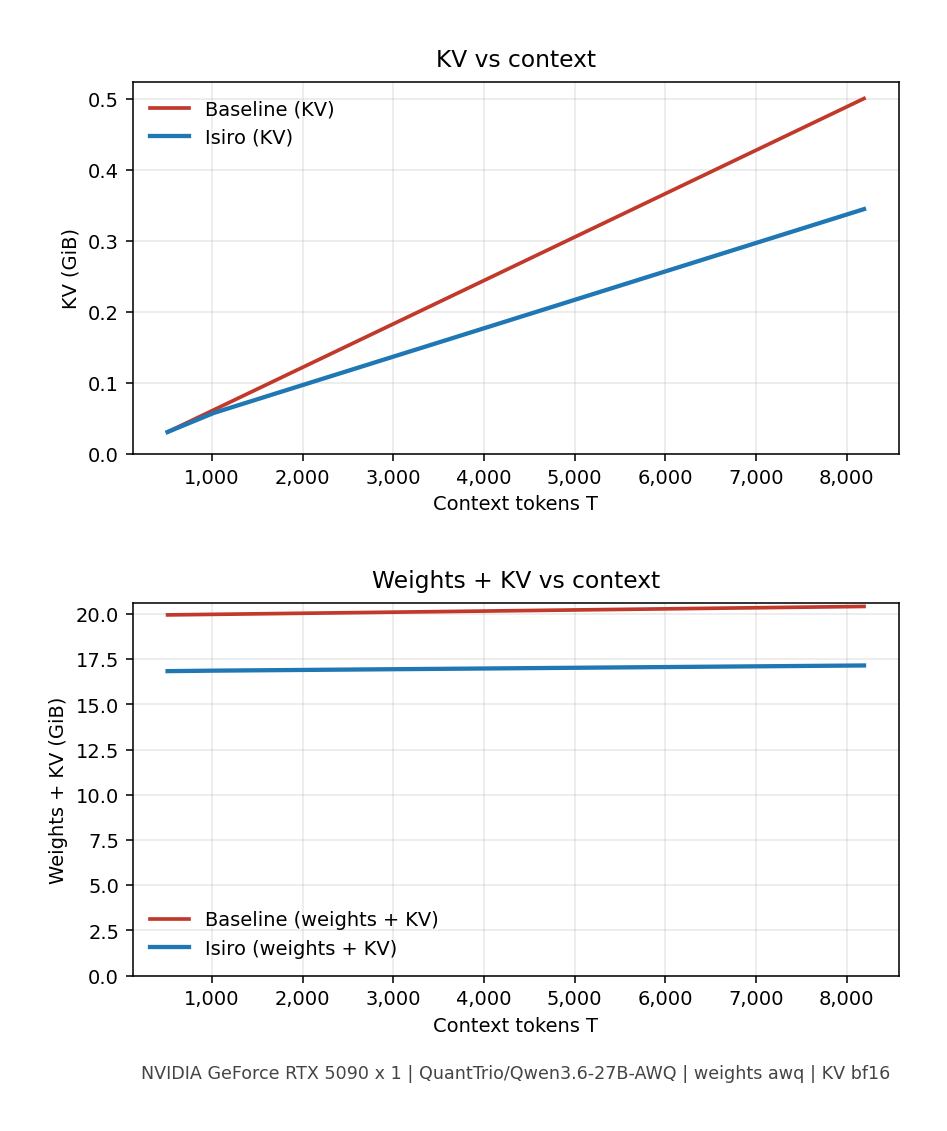
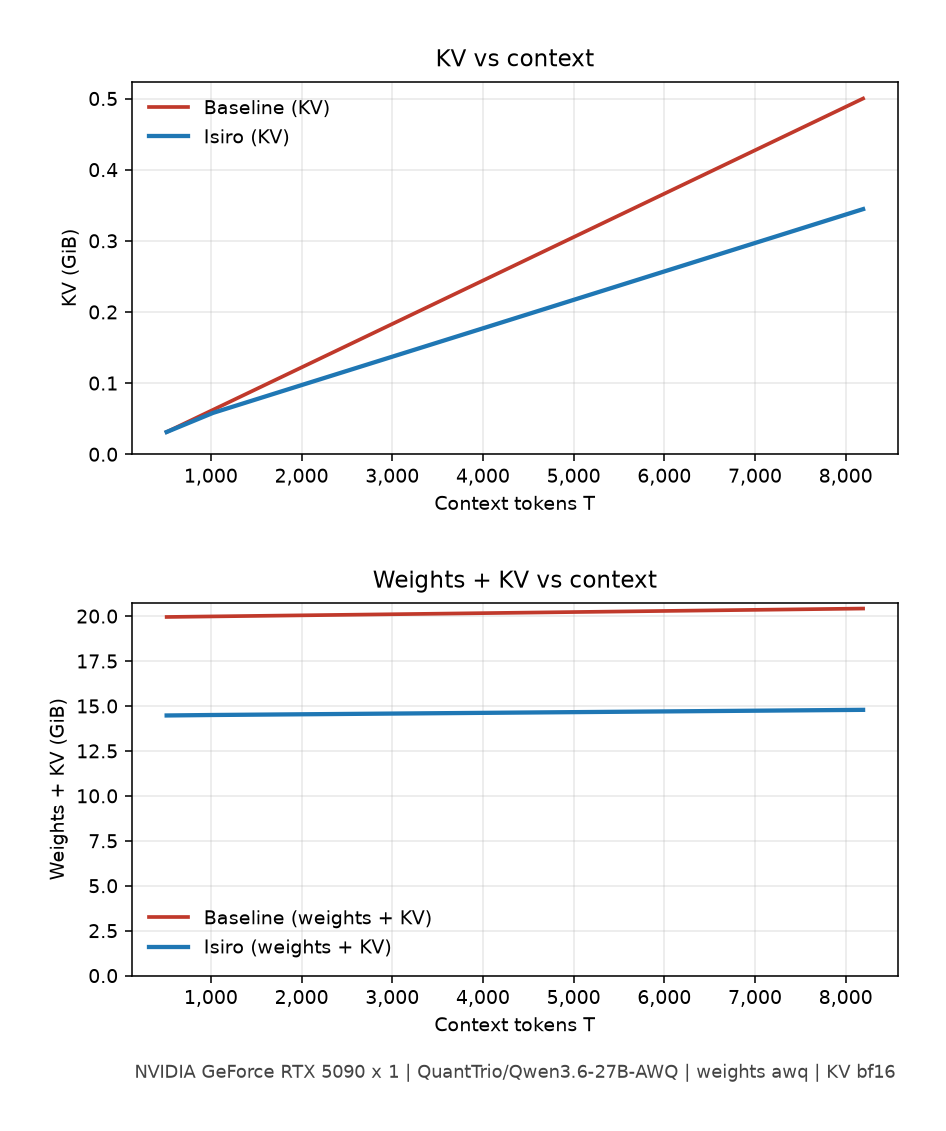
Remeter AWQ KV cube with Hub capture parity and GiB-only GDX Capacity.
Pin max_cudagraph_capture_size to max(16, max_num_seqs) to match Hub admit-align, and under GDX report reserved KV as GiB only so vendor token slots are not read as cold capacity.

diff --git a/benchmarks/scripts/generate_report.py b/benchmarks/scripts/generate_report.py
@@ -96,7 +96,18 @@ def tokens_with_pool(
     *,
     extra: str = "",
     dagger: bool = False,
+    gib_only: bool = False,
 ) -> str:
+    """Format reserved pool for the report.
+
+    Under GDX, vendor token slots are not effective cold capacity; prefer
+    GiB-only so Capacity does not read like a pre-GDX token ceiling.
+    """
+    if gib_only and gib is not None:
+        text = f"{gib:.2f} GiB"
+        if dagger:
+            text += "†"
+        return text
     parts = [number(tokens, 0)]
     bits: list[str] = []
     if gib is not None:
@@ -441,7 +452,11 @@ def _section_gpu_excluding_kv(footprint: dict[str, Any]) -> list[str]:
     ]
 
 
-def _section_kv_reservation(kv: dict[str, Any]) -> list[str]:
+def _section_kv_reservation(
+    kv: dict[str, Any],
+    *,
+    gib_only: bool = False,
+) -> list[str]:
     """Reserved GPU KV vs Baseline default fill (no Savings %; pool size is not a win)."""
     b_tokens = kv.get("baseline_tokens_measured")
     t_tokens = kv.get("tic_tokens_measured")
@@ -451,9 +466,14 @@ def _section_kv_reservation(kv: dict[str, Any]) -> list[str]:
     t_gib = pool_gib(t_bytes, t_tokens, peer_bytes=b_bytes, peer_tokens=b_tokens)
     if b_gib is None or t_gib is None:
         return []
-    b_tok = number(b_tokens, 0) if b_tokens is not None else "null"
-    t_tok = number(t_tokens, 0) if t_tokens is not None else "null"
-    tic_cell = f"{t_gib:.2f} GiB ({t_tok} tokens)†"
+    if gib_only:
+        base_cell = f"{b_gib:.2f} GiB"
+        tic_cell = f"{t_gib:.2f} GiB†"
+    else:
+        b_tok = number(b_tokens, 0) if b_tokens is not None else "null"
+        t_tok = number(t_tokens, 0) if t_tokens is not None else "null"
+        base_cell = f"{b_gib:.2f} GiB ({b_tok} tokens)"
+        tic_cell = f"{t_gib:.2f} GiB ({t_tok} tokens)†"
     from needle_haystack import kv_overflow_footnote_lines
 
     arm = _arm_col()
@@ -464,11 +484,11 @@ def _section_kv_reservation(kv: dict[str, Any]) -> list[str]:
         "|--------|-----------------------|-------------------|",
         (
             "| GPU memory reserved for KV | "
-            f"{b_gib:.2f} GiB ({b_tok} tokens) | "
+            f"{base_cell} | "
             f"{tic_cell} |"
         ),
         "",
-        *kv_overflow_footnote_lines(),
+        *kv_overflow_footnote_lines(gib_only=gib_only),
     ]
 
 
@@ -478,6 +498,7 @@ def _section_c(
     *,
     prefix: str = "1",
     overflow_note: bool = False,
+    gib_only: bool = False,
 ) -> list[str]:
     b_seqs = (capacity.get("baseline") or {}).get("max_num_seqs")
     t_seqs = (capacity.get("tic") or {}).get("max_num_seqs")
@@ -535,28 +556,42 @@ def _section_c(
         peer_bytes=kv.get("baseline_memory_bytes_measured"),
         peer_tokens=b_tokens,
     )
-    tokens_base = tokens_with_pool(b_tokens, b_gib)
+    tokens_base = tokens_with_pool(b_tokens, b_gib, gib_only=gib_only)
     tokens_tic = bold_win(
-        tokens_with_pool(t_tokens, t_gib, dagger=True),
-        win=kv_token_win,
+        tokens_with_pool(t_tokens, t_gib, dagger=True, gib_only=gib_only),
+        win=(kv_token_win if not gib_only else (
+            isinstance(t_gib, float)
+            and isinstance(b_gib, float)
+            and float(t_gib) > float(b_gib)
+        )),
     )
     if str(capacity.get("kv_measured_source") or "") == "timed_asymmetric":
         tokens_tic = f"{tokens_tic}; asymmetric timed seqs"
     letter = str(prefix) if prefix in ("C", "D") else "D"
+    kv_row_label = "KV pool" if gib_only else "KV token capacity"
+    kv_blurb = (
+        "KV pool is the reserved vendor GPU KV GiB (same util target as "
+        "Baseline). Under GDX, vendor token slots are not effective cold "
+        "capacity; GiB is the fair A/B meter."
+        if gib_only
+        else (
+            "KV token capacity is reserved pool slots when Isiro printed KV "
+            "pool, else vLLM GPU tokens in this serve's reserved GPU pool."
+        )
+    )
     lines = [
         f"## {letter}. Capacity",
         "",
         scale_blurb,
         "",
         "Concurrent requests are the serve max concurrent sequences "
-        "(`max_num_seqs`); the bench load matches that ceiling in this A/B. "
-        "KV token capacity is reserved pool slots when Isiro printed KV pool, "
-        "else vLLM GPU tokens in this serve's reserved GPU pool.",
+        f"(`max_num_seqs`); the bench load matches that ceiling in this A/B. "
+        f"{kv_blurb}",
         "",
         f"| Metric | Baseline | {arm} |",
         "|--------|----------|-------|",
         f"| Concurrent requests | {number(b_seqs, 0)} | {seqs_tic} |",
-        f"| KV token capacity | {tokens_base} | {tokens_tic} |",
+        f"| {kv_row_label} | {tokens_base} | {tokens_tic} |",
         "",
     ]
     if overflow_note:
@@ -798,7 +833,10 @@ def _section_gdx_kv_bytes(summary: dict[str, Any]) -> list[str]:
     return lines
 
 
-def _mode_sections(summary: dict[str, Any]) -> list[str]:
+def _mode_sections(
+    summary: dict[str, Any],
+    commands: dict[str, Any] | None = None,
+) -> list[str]:
     footprint = summary.get("footprint") or {}
     kv = summary.get("kv_cache") or {}
     capacity = (
@@ -813,9 +851,16 @@ def _mode_sections(summary: dict[str, Any]) -> list[str]:
     )
     decode_rows = _decode_rows(summary)
     experiment_kind = str(summary.get("experiment_kind") or "equal-batch")
+    cmds = commands if isinstance(commands, dict) else {}
+    if not cmds and isinstance(summary.get("commands"), dict):
+        cmds = summary["commands"]
+    gdx_doc = summary.get("gdx_kv_bytes") if isinstance(summary.get("gdx_kv_bytes"), dict) else {}
+    gdx_on = bool(str(cmds.get("isiro_gdx_kv") or "").strip()) or bool(
+        gdx_doc.get("image") or gdx_doc.get("alphabet")
+    )
     lines: list[str] = []
     lines.extend(_section_gpu_excluding_kv(footprint))
-    lines.extend(_section_kv_reservation(kv))
+    lines.extend(_section_kv_reservation(kv, gib_only=gdx_on))
     lines.extend(_section_gdx_kv_bytes(summary))
     reserved_gib = pool_gib(
         kv.get("tic_memory_bytes_measured"),
@@ -860,6 +905,7 @@ def _mode_sections(summary: dict[str, Any]) -> list[str]:
                 kv,
                 prefix=cap_letter,
                 overflow_note=False,
+                gib_only=gdx_on,
             )
         )
         lines.extend(
@@ -973,7 +1019,7 @@ def render(run_dir: Path) -> str:
     graph_mode = _graph_mode(commands)
     lines = _section_intro(summary, commands)
     lines.extend(_section_a(footprint, correctness))
-    lines.extend(_mode_sections(summary))
+    lines.extend(_mode_sections(summary, commands))
     story_path = run_dir / "stock_vllm_story.json"
     if story_path.is_file():
         from stock_vllm_story import render_story_markdown

diff --git a/benchmarks/scripts/needle_haystack.py b/benchmarks/scripts/needle_haystack.py
@@ -1848,17 +1848,23 @@ def kv_sweep_table_lines(
     ]
 
 
-def kv_overflow_footnote_lines() -> list[str]:
-    return [
-        (
+def kv_overflow_footnote_lines(*, gib_only: bool = False) -> list[str]:
+    if gib_only:
+        body = (
+            "† Reserved vendor GPU KV pool GiB (same util target as Baseline). "
+            "Under GDX this is not coded cold capacity; longer context uses "
+            "persist after vendor reclaim of prefix blocks (TokenIDs plus "
+            "archived K,V). Not a second vendor KV cache on the host."
+        )
+    else:
+        body = (
             "† Reserved pool on the GPU at vendor KV bytes/token. "
             "Token counts are pool admission slots (same bpv as the vendor "
             "dtype), not GDX-coded cold capacity. Longer context uses persist "
             "after vendor reclaim of prefix blocks (TokenIDs plus archived "
             "K,V). Not a second vendor KV cache on the host."
-        ),
-        "",
-    ]
+        )
+    return [body, ""]
 
 
 def report_lines(

diff --git a/benchmarks/tests/test_benchmark.py b/benchmarks/tests/test_benchmark.py
@@ -1577,6 +1577,15 @@ class BenchmarkTests(unittest.TestCase):
             self.assertIn("GDX `bf16` cold roundtrip", report)
             self.assertIn("reserved vendor KV pool", report)
             self.assertIn("KV vs context", report)
+            # GDX: reserved pool as GiB only (vendor token slots ≠ cold capacity).
+            self.assertRegex(
+                report,
+                r"GPU memory reserved for KV \| [0-9.]+ GiB \|",
+            )
+            self.assertNotRegex(
+                report,
+                r"GPU memory reserved for KV \| [0-9.]+ GiB \([0-9]+ tokens\)",
+            )
             self.assertNotIn("coding-rate", report)
             self.assertNotIn("~29-31%", report)
             self.assertNotIn("ISIRO_GDX_C=fp8", report)

diff --git a/benchmarks/qwen3.6-27b-awq/rtx-5090-report/report.md b/benchmarks/qwen3.6-27b-awq/rtx-5090-report/report.md
@@ -1,6 +1,6 @@
 # ISIRO Benchmark Report: `qwen3.6-27b-awq`
 
-`awq` | `rtx-5090` | compiler `v0.1.1` | runtime `v0.1.1` | 2026-10-22 23:13 UTC
+`awq` | `rtx-5090` | compiler `v0.1.1` | runtime `v0.1.1` | 2026-10-24 02:34 UTC
 
 Tooling:
 
@@ -30,19 +30,19 @@ Savings % uses `1 - Isiro/Baseline` for loaded weights.
 
 | Metric | Baseline | Isiro | Savings % |
 |--------|----------|-------|-----------|
-| GPU memory for loaded weights | 19.92 GiB | **16.81 GiB** | **15.61%** |
+| GPU memory for loaded weights | 19.92 GiB | **14.44 GiB** | **27.51%** |
 
 ### KV cache
 
 | Metric | Baseline default fill | Isiro reserved KV |
 |--------|-----------------------|-------------------|
-| GPU memory reserved for KV | 4.47 GiB (54418 tokens) | 4.12 GiB (50322 tokens)† |
+| GPU memory reserved for KV | 4.47 GiB | 4.18 GiB† |
 
-† Reserved pool on the GPU at vendor KV bytes/token. Token counts are pool admission slots (same bpv as the vendor dtype), not GDX-coded cold capacity. Longer context uses persist after vendor reclaim of prefix blocks (TokenIDs plus archived K,V). Not a second vendor KV cache on the host.
+† Reserved vendor GPU KV pool GiB (same util target as Baseline). Under GDX this is not coded cold capacity; longer context uses persist after vendor reclaim of prefix blocks (TokenIDs plus archived K,V). Not a second vendor KV cache on the host.
 
 ### KV vs context
 
-`ISIRO_GDX=bf16` on KV from a Project Gutenberg text forward. At T=8192: Baseline KV 0.50 GiB, Isiro KV 0.34 GiB; save 0.16 GiB (31.1%). Bottom panel adds loaded weights (Baseline 19.92 GiB, Isiro 16.81 GiB): at T=8192, Baseline 20.42 GiB vs Isiro 17.15 GiB (weights + KV).
+`ISIRO_GDX=bf16` on KV from a Project Gutenberg text forward. At T=8192: Baseline KV 0.50 GiB, Isiro KV 0.34 GiB; save 0.16 GiB (31.1%). Bottom panel adds loaded weights (Baseline 19.92 GiB, Isiro 14.44 GiB): at T=8192, Baseline 20.42 GiB vs Isiro 14.78 GiB (weights + KV).
 
 Figure. Weights and KV vs 1-user context.
 
@@ -52,12 +52,12 @@ Figure. Weights and KV vs 1-user context.
 
 Concurrent requests are 8 on both sides. Not scaled from KV token capacity.
 
-Concurrent requests are the serve max concurrent sequences (`max_num_seqs`); the bench load matches that ceiling in this A/B. KV token capacity is reserved pool slots when Isiro printed KV pool, else vLLM GPU tokens in this serve's reserved GPU pool.
+Concurrent requests are the serve max concurrent sequences (`max_num_seqs`); the bench load matches that ceiling in this A/B. KV pool is the reserved vendor GPU KV GiB (same util target as Baseline). Under GDX, vendor token slots are not effective cold capacity; GiB is the fair A/B meter.
 
 | Metric | Baseline | Isiro |
 |--------|----------|-------|
 | Concurrent requests | 8 | 8 |
-| KV token capacity | 54418 (4.47 GiB KV) | 50322 (4.12 GiB KV)† |
+| KV pool | 4.47 GiB | 4.18 GiB† |
 
 ### Generation (recall-matched KV, input 32 / output 256)
 
@@ -65,10 +65,10 @@ Tok/s is aggregate system throughput across in-flight requests. Per-request deco
 
 | Metric | Baseline | Isiro |
 |--------|----------|-------|
-| Output tok/s | 524.19 | 520.28 |
-| ITL (ms) p50 / p95 / p99 | 14.79 / 15.18 / 15.43 | 14.91 / 15.41 / 29.91 |
-| TPOT (ms) p50 / p95 / p99 | 14.80 / 14.89 / 14.93 | 14.91 / 14.96 / 14.98 |
-| TTFT (ms) p50 / p95 / p99 | 132.20 / 132.41 / 132.42 | 131.69 / 132.05 / 132.05 |
+| Output tok/s | 524.05 | 514.75 |
+| ITL (ms) p50 / p95 / p99 | 14.79 / 15.17 / 15.40 | 14.98 / 15.71 / 16.37 |
+| TPOT (ms) p50 / p95 / p99 | 14.80 / 14.89 / 14.93 | 14.97 / 15.04 / 15.07 |
+| TTFT (ms) p50 / p95 / p99 | 132.70 / 132.94 / 132.94 | 159.55 / 159.77 / 159.78 |
 
 ## Config
 
